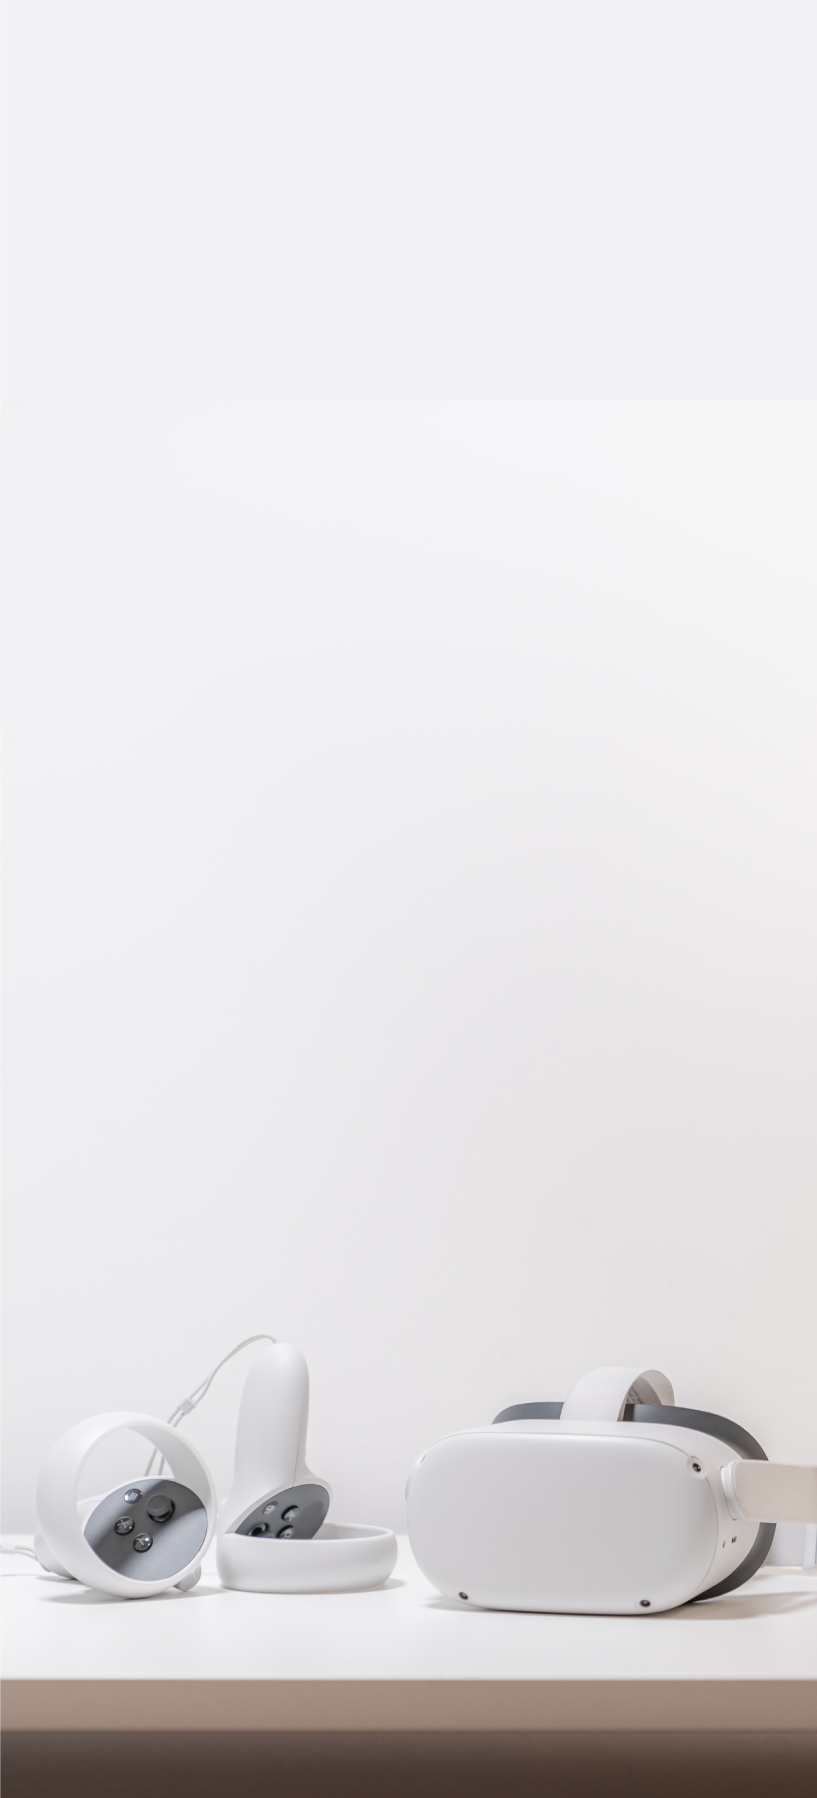
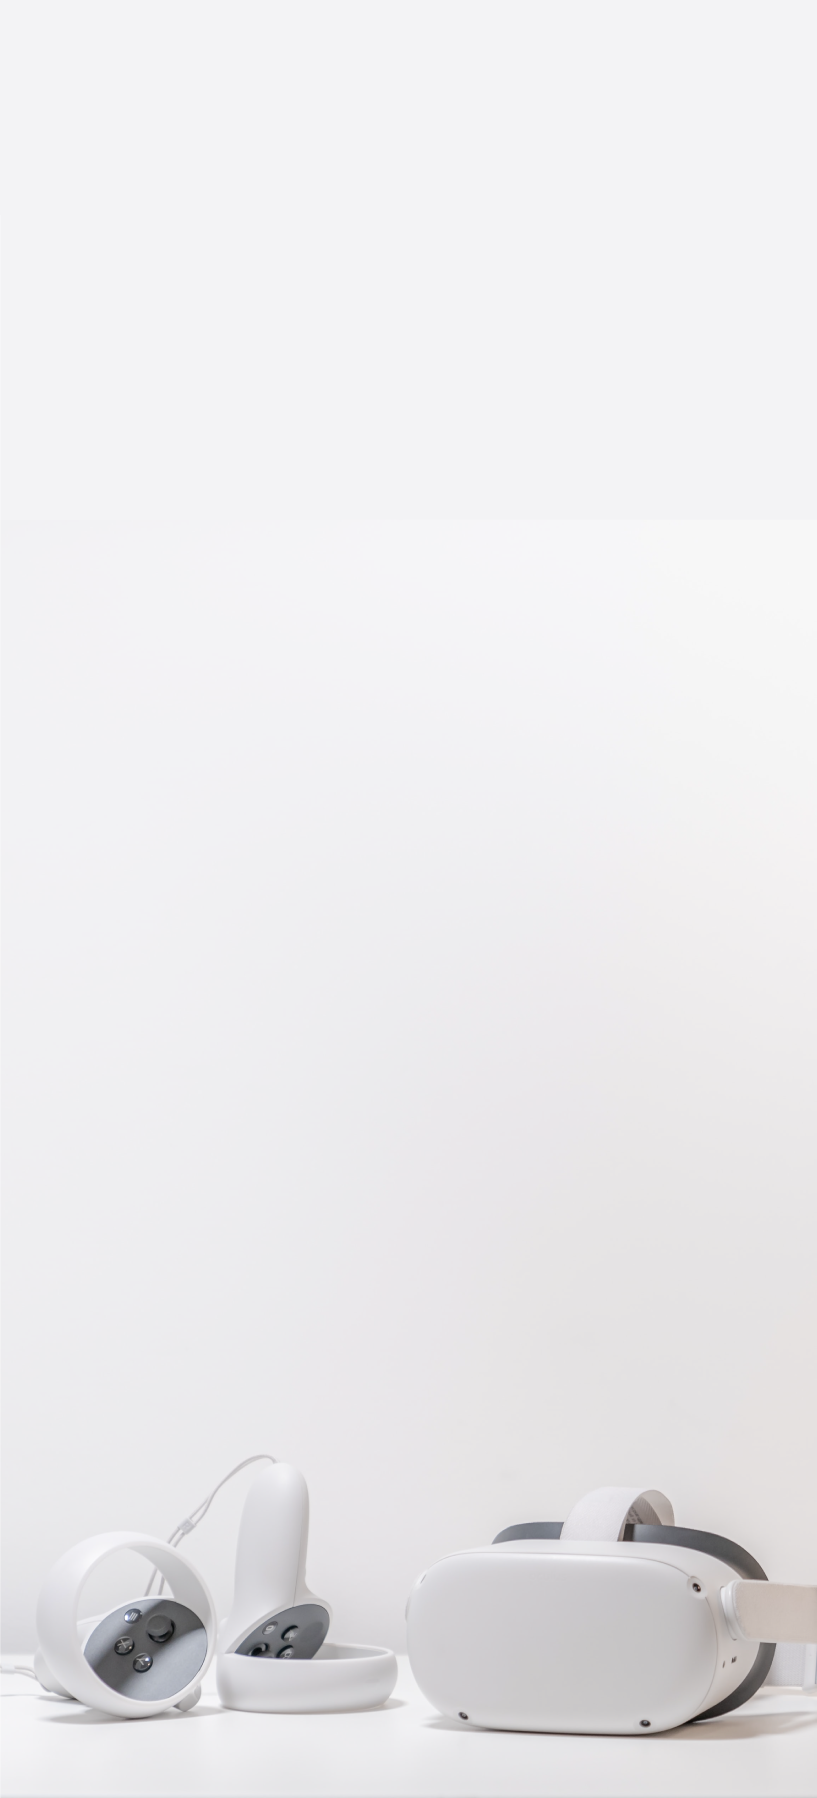
login ui style fix

Changed region(s): [[0.0, 0.7475, 1.0, 1.0]]

diff --git a/src/app/login/login.page.html b/src/app/login/login.page.html
@@ -4,29 +4,68 @@
   </ion-toolbar>
 </ion-header> -->
 
-<ion-content padding class="background">
-  <div style="background-color: transparent; padding: 30px;">
-    <h2 style="color: rgb(56, 54, 54); line-height: 1; font-size: 32px;">Welcome</h2>
-    <!-- <p style="color: rgb(0, 0, 0); line-height: 1; font-size: 13px;">Sign in to continue</p> -->
-  </div>
-  <div style="display: flex;
-  justify-content: center; margin-top: 15%;">
-    <img src="../../assets/icon/logo_oq.png" width="150px">
-  </div>
-  <div style="text-align: center;margin-top: 15%;display: flex;flex-wrap: nowrap;justify-content: center;">
-    <form #form="ngForm" (ngSubmit)="login(form)" style="padding: 5px; width: 85%;">
-      <ion-input style="margin-bottom: 5px;" name="email" type="email" placeholder="Email" ngModel required>
-      </ion-input>
-      <ion-input style="margin-bottom: 5px;" name="password" type="password" placeholder="Password" ngModel required>
-      </ion-input>
-      <ion-button style="padding: 10px 25%;" color="primary" size="large" type="submit" [disabled]="form.invalid"
-        expand="block">Login
-      </ion-button>
-      <p
-        style="color: #1a1a1a;margin-top: 0px; padding: 0px 5px 5px; text-shadow: 0px 0px 5px rgba(150, 150, 150, 0.699);">
-        I'm new
-        <span> <a class="nav-item nav-link" routerLink="/register" style="text-decoration: none;"> Sign Up</a></span>
-      </p>
-    </form>
-  </div>
+<ion-content padding>
+  <section class="wrapper">
+    <div class="flex flex-col justify-center text-center">
+      <h2 class="my-8 text-gray-700">Welcome</h2>
+      <div class="w-96 flex justify-center">
+        <img src="../../assets/icon/logo_oq.png" width="100px" />
+      </div>
+    </div>
+
+    <div
+      style="
+        margin-top: 15%;
+        display: flex;
+        flex-wrap: nowrap;
+        justify-content: center;
+      "
+    >
+      <form
+        #form="ngForm"
+        (ngSubmit)="login(form)"
+        style="padding: 5px; width: 85%"
+      >
+        <ion-input
+          class="bg-white rounded-lg text-sm overflow-hidden mb-3"
+          name="email"
+          type="email"
+          placeholder="Email"
+          ngModel
+          required
+        >
+        </ion-input>
+        <ion-input
+          class="bg-white rounded-lg text-sm overflow-hidden mb-3"
+          name="password"
+          type="password"
+          placeholder="Password"
+          ngModel
+          required
+        >
+        </ion-input>
+        <ion-button
+          mode="ios"
+          color="primary"
+          size="medium"
+          type="submit"
+          [disabled]="form.invalid"
+          expand="block"
+          >Login
+        </ion-button>
+        <p class="my-5 text-center text-sm text-gray-700">
+          Don't have an account ?
+          <span>
+            <a
+              class="nav-item nav-link"
+              routerLink="/register"
+              style="text-decoration: none"
+            >
+              Sign Up</a
+            ></span
+          >
+        </p>
+      </form>
+    </div>
+  </section>
 </ion-content>

diff --git a/src/app/login/login.page.scss b/src/app/login/login.page.scss
@@ -6,9 +6,16 @@ ion-button{
     --background: #062f77;
 }
 ion-content.background {
-    --background: url(../../assets/Landing-page.png) 0 0/100% 100% no-repeat;
+    // --background: url(../../assets/Landing-page.png) 0 0/100% 100% no-repeat;
     // background-size: contain; background-repeat: no-repeat;
 }
+.wrapper {
+    background: url(../../assets/Landing-page.png);
+    background-repeat: no-repeat;
+    background-size: cover;
+    background-position-y: bottom;
+    height: 100%;
+  }
 // a{
 //     color: #fff;
 // }
